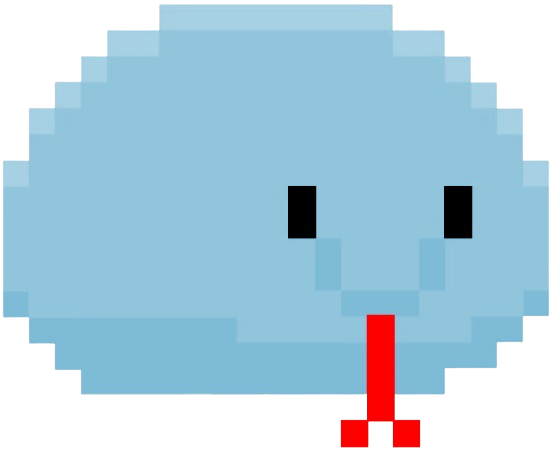
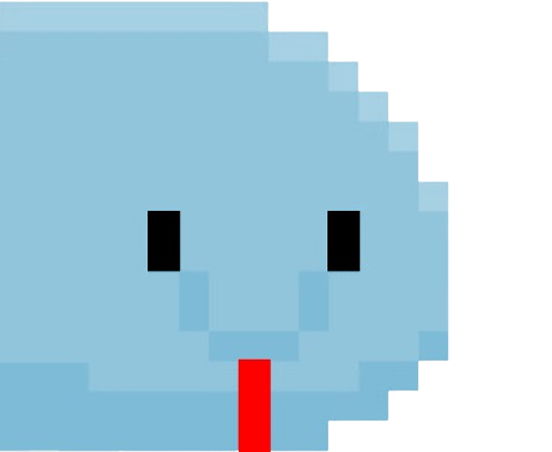
Fix snake head rotation

diff --git a/Snake/main.py b/Snake/main.py
@@ -131,9 +131,20 @@ def draw_text_with_shadow(text, font, color, shadow_color, position):
     screen.blit(shadow_surface, shadow_pos)
     screen.blit(text_surface, position)
 
-def draw_snake(snake_pos, head_icon, body_icon):
+def draw_snake(snake_pos, snake_dir, head_icon, body_icon):
     # Disegna la testa del serpente
-    screen.blit(head_icon, (snake_pos[0][0], snake_pos[0][1]), pygame.Rect(0, 0, BLOCK_SIZE, BLOCK_SIZE))
+
+    rotated_head: pygame.Surface
+    if snake_dir == (0, -BLOCK_SIZE):
+        rotated_head = pygame.transform.rotate(head_icon, 90)
+    elif snake_dir == (0, BLOCK_SIZE):
+        rotated_head = pygame.transform.rotate(head_icon, -90)
+    elif snake_dir == (-BLOCK_SIZE, 0):
+        rotated_head = pygame.transform.flip(head_icon, True, False)
+    elif snake_dir == (BLOCK_SIZE, 0):
+        rotated_head = head_icon
+
+    screen.blit(rotated_head, (snake_pos[0][0], snake_pos[0][1]), pygame.Rect(0, 0, BLOCK_SIZE, BLOCK_SIZE))
 
     # Disegna il corpo del serpente
     for pos in snake_pos[1:]:
@@ -320,7 +331,9 @@ def game(fps, mode):
             pygame.mixer.music.load(music_files["Media"])
         elif selected_difficulty == "Difficile":
             pygame.mixer.music.load(music_files["Difficile"])
+
         pygame.mixer.music.play(-1)
+
 
     if mode == "Multiplayer":
         num_obstacles = 10  # Numero di ostacoli per la modalità Multiplayer
@@ -424,10 +437,10 @@ def game(fps, mode):
         screen.blit(field_background_image, (0, 0))
 
         # Disegna il serpente
-        draw_snake(snake1_pos, blue_player_head, blue_player_body)
+        draw_snake(snake1_pos, snake1_dir, blue_player_head, blue_player_body)
 
         if mode == "Multiplayer":
-            draw_snake(snake2_pos, red_player_head, red_player_body)
+            draw_snake(snake2_pos, snake2_dir, red_player_head, red_player_body)
 
         # Disegna il cibo (mela)
         screen.blit(apple_icon, food_pos)
@@ -456,7 +469,7 @@ def game(fps, mode):
         screen.blit(score2_text, (SCREEN_WIDTH // 2 - score2_text.get_width() // 2, SCREEN_HEIGHT // 2 + 80))
 
     pygame.display.flip()
-    pygame.time.wait(5000)
+    pygame.time.wait(3000)
 
 # Loop principale del gioco
 while True:
